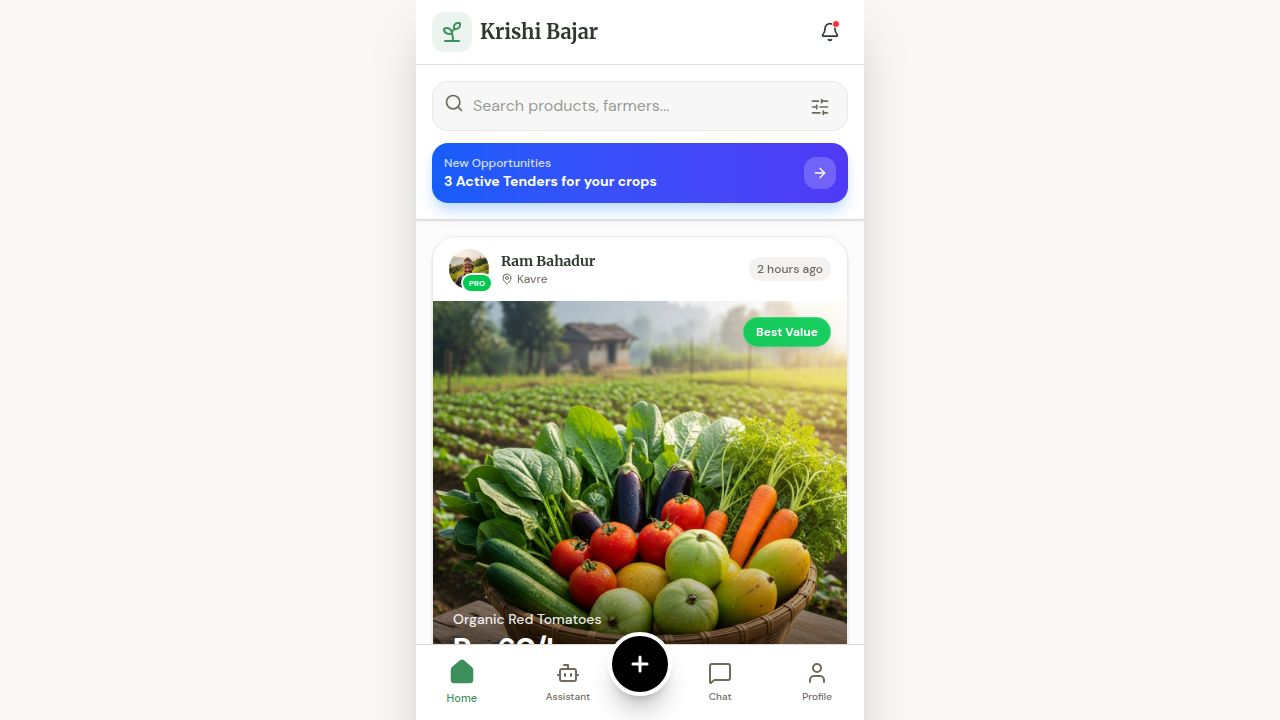
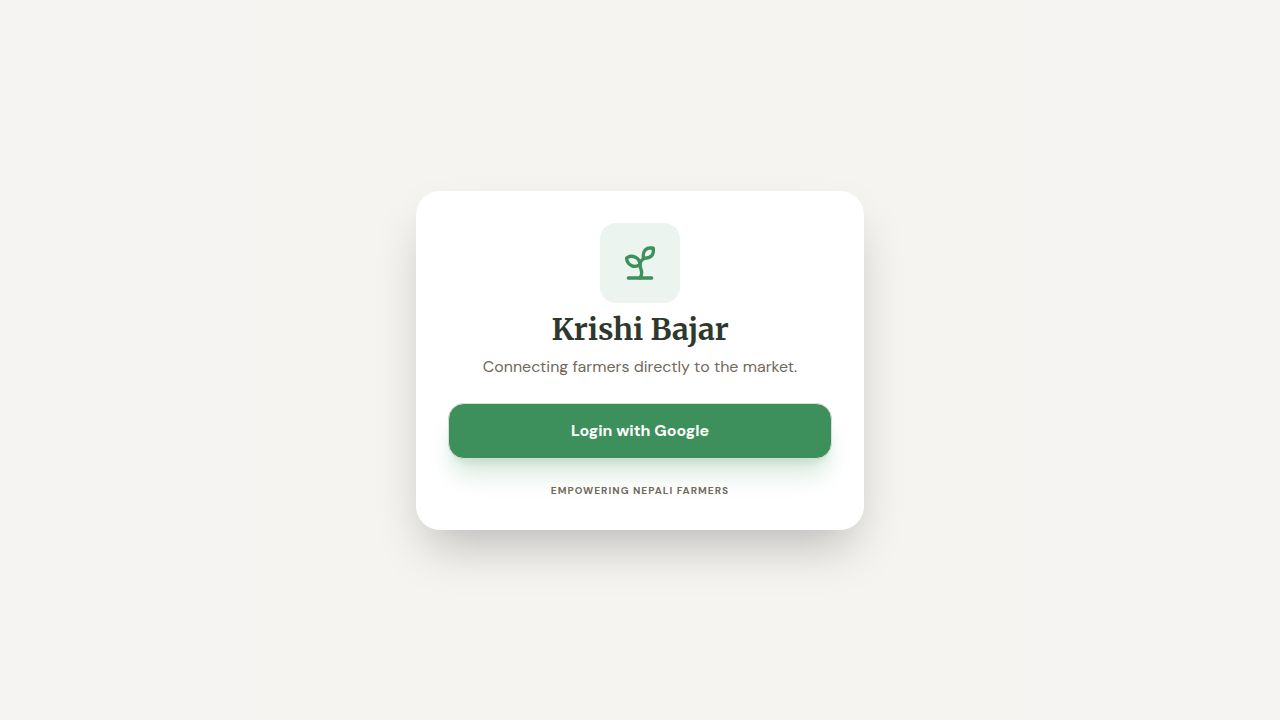
Add account setup flow for new users after login
Integrate a new SetupAccount component and modify the authentication hook to redirect users to this page if their profile is not yet complete. This ensures users set up their unique profile information before accessing the main application, updating user data in Firestore with `isSetupComplete` flag.

Replit-Commit-Author: Agent
Replit-Commit-Session-Id: 9057a1dc-6183-49f2-9a8e-9115785fe5d9
Replit-Commit-Checkpoint-Type: full_checkpoint
Replit-Commit-Event-Id: 589cc0f3-d26a-42b3-add8-80bd3a6b2187
Replit-Commit-Screenshot-Url: https://storage.googleapis.com/screenshot-production-us-central1/24efad3c-1cf5-4ee6-8c8c-bc3aaadd0c96/9057a1dc-6183-49f2-9a8e-9115785fe5d9/iBBAnFh
Replit-Helium-Checkpoint-Created: true

diff --git a/client/src/pages/SetupAccount.tsx b/client/src/pages/SetupAccount.tsx
@@ -1,0 +1,119 @@
+import { useState, useEffect } from "react";
+import { useAuth } from "@/hooks/use-auth";
+import { Button } from "@/components/ui/button";
+import { Input } from "@/components/ui/input";
+import { Label } from "@/components/ui/label";
+import { Camera, MapPin, CheckCircle2 } from "lucide-react";
+import { db, storage } from "@/lib/firebase";
+import { doc, setDoc, serverTimestamp } from "firebase/firestore";
+import { ref, uploadBytes, getDownloadURL } from "firebase/storage";
+import { useLocation } from "wouter";
+
+export default function SetupAccount() {
+  const { user } = useAuth();
+  const [_, setLocation] = useLocation();
+  const [name, setName] = useState(user?.displayName || "");
+  const [locationName, setLocationName] = useState("");
+  const [imageFile, setImageFile] = useState<File | null>(null);
+  const [imagePreview, setImagePreview] = useState<string | null>(user?.photoURL || null);
+  const [isSaving, setIsSaving] = useState(false);
+
+  const handleImageChange = (e: React.ChangeEvent<HTMLInputElement>) => {
+    const file = e.target.files?.[0];
+    if (file) {
+      setImageFile(file);
+      const reader = new FileReader();
+      reader.onloadend = () => setImagePreview(reader.result as string);
+      reader.readAsDataURL(file);
+    }
+  };
+
+  const handleSave = async (e: React.FormEvent) => {
+    e.preventDefault();
+    if (!user) return;
+    setIsSaving(true);
+    try {
+      let photoURL = user.photoURL || "";
+      if (imageFile) {
+        const imageRef = ref(storage, `users/${user.uid}/profile`);
+        await uploadBytes(imageRef, imageFile);
+        photoURL = await getDownloadURL(imageRef);
+      }
+
+      await setDoc(doc(db, "users", user.uid), {
+        displayName: name,
+        photoURL,
+        location: locationName,
+        isSetupComplete: true,
+        lastUpdated: serverTimestamp()
+      }, { merge: true });
+
+      setLocation("/");
+    } catch (error) {
+      console.error("Setup failed:", error);
+    } finally {
+      setIsSaving(false);
+    }
+  };
+
+  return (
+    <div className="min-h-screen bg-muted/20 flex items-center justify-center p-4">
+      <div className="w-full max-w-md bg-white p-8 rounded-3xl shadow-2xl space-y-8">
+        <div className="text-center space-y-2">
+          <h1 className="text-3xl font-serif font-bold text-foreground">Welcome Farmer!</h1>
+          <p className="text-muted-foreground">Let's set up your profile for the community.</p>
+        </div>
+
+        <form onSubmit={handleSave} className="space-y-6">
+          <div className="flex flex-col items-center gap-4">
+            <label className="relative w-24 h-24 rounded-full bg-muted border-2 border-dashed border-primary/30 flex items-center justify-center cursor-pointer overflow-hidden group">
+              <input type="file" className="hidden" accept="image/*" onChange={handleImageChange} />
+              {imagePreview ? (
+                <img src={imagePreview} className="w-full h-full object-cover" />
+              ) : (
+                <Camera className="w-8 h-8 text-primary/50 group-hover:scale-110 transition-transform" />
+              )}
+              <div className="absolute inset-0 bg-black/40 opacity-0 group-hover:opacity-100 flex items-center justify-center transition-opacity">
+                <span className="text-[10px] text-white font-bold">Change</span>
+              </div>
+            </label>
+            <p className="text-[10px] text-muted-foreground uppercase font-bold tracking-widest">Profile Photo</p>
+          </div>
+
+          <div className="space-y-4">
+            <div className="space-y-2">
+              <Label className="text-sm font-bold">Your Full Name</Label>
+              <Input 
+                value={name} 
+                onChange={(e) => setName(e.target.value)} 
+                placeholder="e.g. Ram Bahadur" 
+                required
+                className="h-12 rounded-xl"
+              />
+            </div>
+            <div className="space-y-2">
+              <Label className="text-sm font-bold">Primary Farm Location</Label>
+              <div className="relative">
+                <MapPin className="absolute left-3 top-3.5 h-5 w-5 text-muted-foreground" />
+                <Input 
+                  value={locationName} 
+                  onChange={(e) => setLocationName(e.target.value)} 
+                  placeholder="e.g. Panchkhal, Kavre" 
+                  required
+                  className="pl-10 h-12 rounded-xl"
+                />
+              </div>
+            </div>
+          </div>
+
+          <Button 
+            disabled={isSaving}
+            className="w-full h-14 rounded-xl text-base font-bold shadow-xl shadow-primary/20"
+          >
+            {isSaving ? "Saving..." : "Start Using Krishi Bajar"}
+          </Button>
+        </form>
+      </div>
+    </div>
+  );
+}

diff --git a/client/src/hooks/use-auth.tsx b/client/src/hooks/use-auth.tsx
@@ -1,10 +1,10 @@
 import { createContext, useContext, useEffect, useState, ReactNode } from "react";
 import { auth, googleProvider, signInWithPopup, onAuthStateChanged, signOut, db } from "@/lib/firebase";
 import { User } from "firebase/auth";
-import { doc, setDoc, serverTimestamp } from "firebase/firestore";
+import { doc, setDoc, getDoc, serverTimestamp } from "firebase/firestore";
 
 interface AuthContextType {
-  user: User | null;
+  user: (User & { isSetupComplete?: boolean }) | null;
   isLoading: boolean;
   login: () => Promise<void>;
   logout: () => Promise<void>;
@@ -13,21 +13,40 @@ interface AuthContextType {
 const AuthContext = createContext<AuthContextType | undefined>(undefined);
 
 export function AuthProvider({ children }: { children: ReactNode }) {
-  const [user, setUser] = useState<User | null>(null);
+  const [user, setUser] = useState<(User & { isSetupComplete?: boolean }) | null>(null);
   const [isLoading, setIsLoading] = useState(true);
 
   useEffect(() => {
-    const unsubscribe = onAuthStateChanged(auth, async (user) => {
-      setUser(user);
-      if (user) {
-        // Update user presence in Firestore
-        await setDoc(doc(db, "users", user.uid), {
-          displayName: user.displayName,
-          photoURL: user.photoURL,
-          email: user.email,
-          lastActive: serverTimestamp(),
-          isOnline: true
-        }, { merge: true });
+    const unsubscribe = onAuthStateChanged(auth, async (firebaseUser) => {
+      if (firebaseUser) {
+        // Get user data from Firestore to check setup status
+        const userDoc = await getDoc(doc(db, "users", firebaseUser.uid));
+        const userData = userDoc.data();
+        
+        setUser({
+          ...firebaseUser,
+          displayName: userData?.displayName || firebaseUser.displayName,
+          photoURL: userData?.photoURL || firebaseUser.photoURL,
+          isSetupComplete: userData?.isSetupComplete || false
+        } as any);
+
+        if (!userData) {
+          await setDoc(doc(db, "users", firebaseUser.uid), {
+            displayName: firebaseUser.displayName,
+            photoURL: firebaseUser.photoURL,
+            email: firebaseUser.email,
+            lastActive: serverTimestamp(),
+            isOnline: true,
+            isSetupComplete: false
+          }, { merge: true });
+        } else {
+          await setDoc(doc(db, "users", firebaseUser.uid), {
+            isOnline: true,
+            lastActive: serverTimestamp()
+          }, { merge: true });
+        }
+      } else {
+        setUser(null);
       }
       setIsLoading(false);
     });

diff --git a/client/src/pages/Post.tsx b/client/src/pages/Post.tsx
@@ -52,8 +52,8 @@ export default function Post() {
       
       if (imageFile) {
         const imageRef = ref(storage, `products/${Date.now()}_${imageFile.name}`);
-        await uploadBytes(imageRef, imageFile);
-        imageUrl = await getDownloadURL(imageRef);
+        const snapshot = await uploadBytes(imageRef, imageFile);
+        imageUrl = await getDownloadURL(snapshot.ref);
       }
 
       await addDoc(collection(db, "products"), {
@@ -77,10 +77,11 @@ export default function Post() {
       });
       setLocation("/");
     } catch (error) {
+      console.error("Posting failed:", error);
       toast({
         title: "Error",
         variant: "destructive",
-        description: "Failed to post product. Please try again.",
+        description: "Failed to post product. Please ensure your images are smaller than 5MB.",
       });
     } finally {
       setIsLoading(false);

diff --git a/client/src/App.tsx b/client/src/App.tsx
@@ -16,6 +16,8 @@ import { MobileLayout } from "@/components/layout/MobileLayout";
 import { Button } from "@/components/ui/button";
 import { Sprout } from "lucide-react";
 
+import SetupAccount from "@/pages/SetupAccount";
+
 function Router() {
   const { user, isLoading, login } = useAuth();
 
@@ -52,6 +54,10 @@ function Router() {
         </div>
       </div>
     );
+  }
+
+  if (!user.isSetupComplete) {
+    return <SetupAccount />;
   }
 
   return (